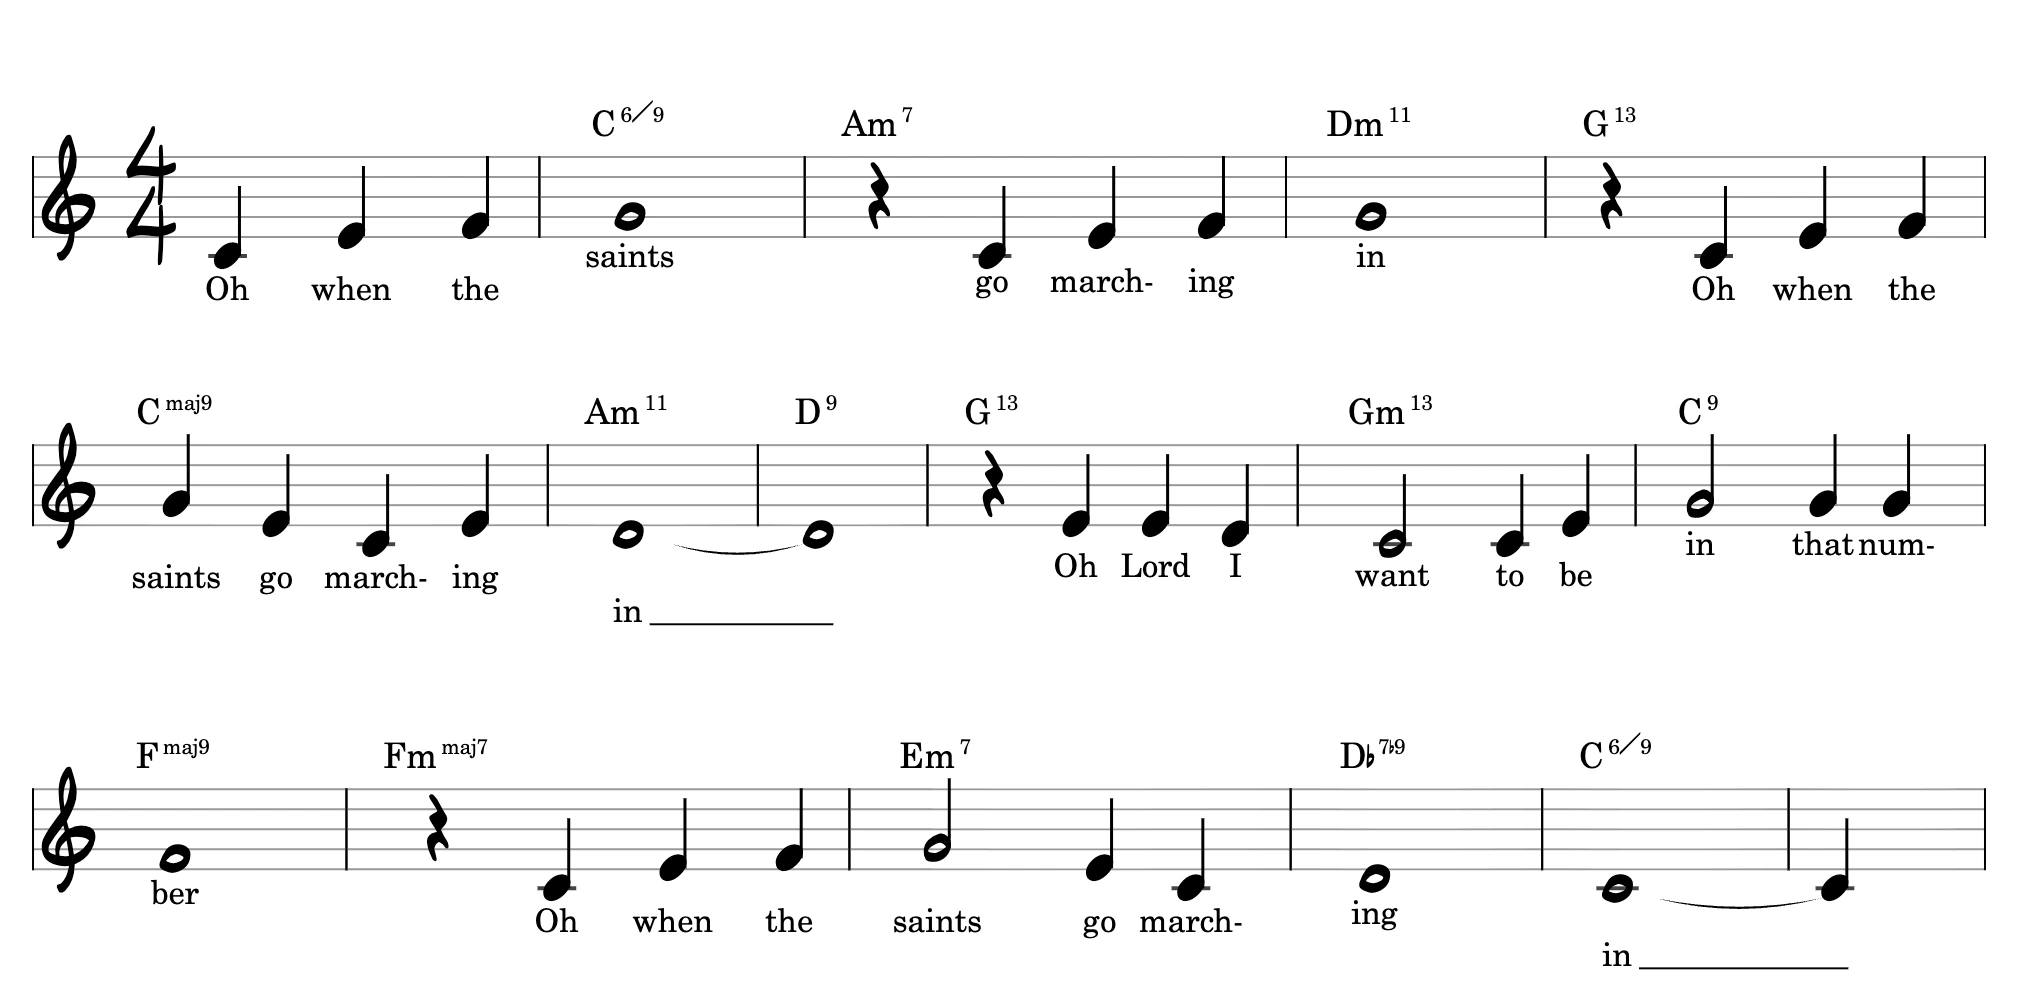
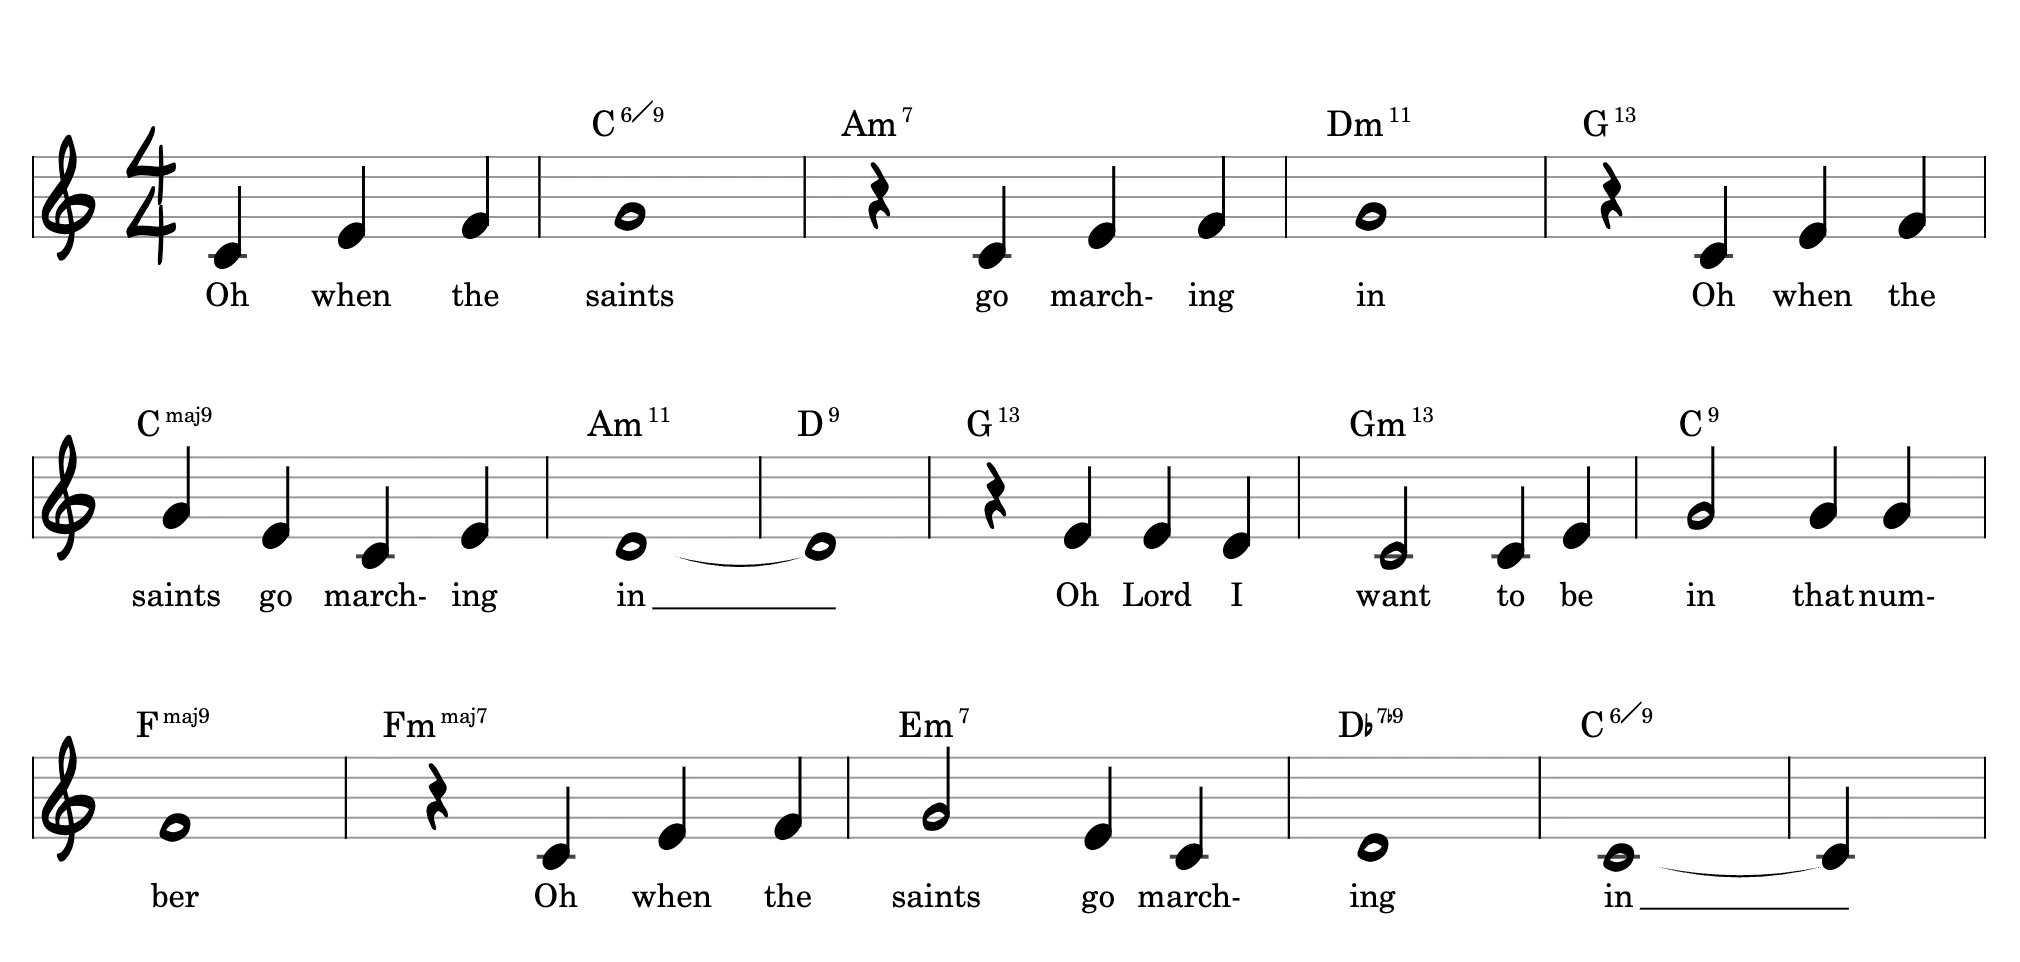
Align held lyrics and rehearsal lettering with their measured ink (#361)

diff --git a/src/continuouslayout.ts b/src/continuouslayout.ts
@@ -1,5 +1,6 @@
 // Row-dependent notation for a responsive EasyScore composition. Source measures and notes keep their identity.
 import { Accidental } from './accidental';
+import { Annotation } from './annotation';
 import { Clef } from './clef';
 import {
   continuationPitch,
@@ -22,6 +23,7 @@ import { MultiMeasureRest } from './multimeasurerest';
 import { Note } from './note';
 import { RenderContext } from './rendercontext';
 import type { SheetOptions, SheetRow } from './sheet';
+import type { Stave } from './stave';
 import { Barline, BarlineType } from './stavebarline';
 import { StaveConnector } from './staveconnector';
 import { StaveModifier, StaveModifierPosition as Position } from './stavemodifier';
@@ -298,6 +300,18 @@ export class ContinuousLayout {
           if (!Number.isInteger(head) || head < 0 || head >= n.keys.length) invalid('Invalid span head index.');
       }
       if (first.measure === last.measure && onset(first.note).greaterThan(onset(last.note))) invalid('Reversed span.');
+      if (
+        span.syllableId !== undefined &&
+        (typeof span.syllableId !== 'string' ||
+          span.syllableId.length === 0 ||
+          span.kind !== 'lyric' ||
+          first.staff !== last.staff ||
+          span.text !== undefined ||
+          span.labelFontSize !== undefined)
+      )
+        invalid(
+          'An anchored lyric extender needs a syllable ID and two notes on the same staff. Its annotation supplies the text and font.'
+        );
       if (span.kind === 'tie' && first.measure !== last.measure) {
         const fi = span.fromHead ?? 0,
           li = span.toHead ?? 0;
@@ -460,6 +474,15 @@ export class ContinuousLayout {
   }
 
   format(options: Required<SheetOptions>): ContinuousRow[] {
+    // A verse can be attached after composition. Resolve its current mark before every reflow.
+    for (const span of this.spans) {
+      if (!span.spec.syllableId) continue;
+      const matches = span.first.note
+        .getModifiers()
+        .filter((m): m is Annotation => m instanceof Annotation && m.getAttribute('id') === span.spec.syllableId);
+      if (matches.length !== 1) invalid('Expected one lyric annotation on the source note: ' + span.spec.syllableId);
+      span.syllable = matches[0];
+    }
     this.hidden.clear();
     this.diagnostics.length = 0;
     this.fragments.length = 0;
@@ -604,6 +627,15 @@ export class ContinuousLayout {
     const laneEnds = new Map<string, number[]>();
     for (const s of spans) {
       if (s.spec.kind === 'tie' || s.spec.kind === 'slur') continue;
+      if (s.syllable) {
+        // A continuation row may have no sung words of its own. Include the extender in that staff's envelope.
+        const stave = this.score.staves[first][s.first.staff];
+        const relativeY = this.lyricBaseline(s.syllable, stave) - stave.getY();
+        const bounds = ink[s.first.staff];
+        bounds.top = Math.min(bounds.top, relativeY);
+        bounds.bottom = Math.max(bounds.bottom, relativeY + 2);
+        continue;
+      }
       const side = spanAbove(s.spec),
         staff = s.first.staff,
         key = staff + '-' + side;
@@ -679,6 +711,13 @@ export class ContinuousLayout {
     return row;
   }
 
+  /** Carry the source syllable's distance from its top staff line to each continuation. */
+  private lyricBaseline(word: Annotation, stave: Stave): number {
+    const source = word.checkAttachedNote().checkStave();
+    const spaces = (word.computeY().y + word.getYShift() - source.getYForLine(0)) / source.space(1);
+    return stave.getYForLine(0) + stave.space(spaces);
+  }
+
   /** Keep continuation hooks and labels on the correct end when a span crosses a row. */
   private addFragment(s: ResolvedSpan, units: Unit[], row: ContinuousRow, baseline: number): void {
     const first = units[0].first,
@@ -695,6 +734,14 @@ export class ContinuousLayout {
     let x2 = ends ? s.last.note.getAbsoluteX() + s.last.note.getGlyphWidth() : endStaff.getNoteEndX() - 3;
     let y1 = baseline,
       y2 = baseline;
+    if (s.syllable) {
+      y1 = y2 = this.lyricBaseline(s.syllable, startStaff);
+      if (starts) {
+        const ink = s.syllable.getTextInk(s.syllable.computeX().x, s.syllable.computeY().y);
+        x1 = ink.x + ink.w + space * 0.35;
+      }
+      if (ends) x2 = (s.last.note as StaveNote).getNoteHeadBeginX() + s.last.note.getGlyphWidth();
+    }
     if (kind === 'tie' || kind === 'slur') {
       if (starts) x1 = s.first.note.getTieRightX();
       if (ends) x2 = s.last.note.getTieLeftX();

diff --git a/src/stavesection.ts b/src/stavesection.ts
@@ -1,6 +1,8 @@
 // Copyright (c) 2023-present VexFlow contributors: https://github.com/vexflow/vexflow/graphs/contributors
 // @author: Larry Kuhns 2011
+// Draw rehearsal lettering and its optional frame from the same positioned text.
 
+import { BoundingBox } from './boundingbox';
 import { Metrics } from './metrics';
 import { StaveModifier } from './stavemodifier';
 import { Category } from './typeguard';
@@ -27,24 +29,31 @@ export class StaveSection extends StaveModifier {
     return this;
   }
 
+  /** Report the same ink and padding before drawing as after a stave has moved. */
+  override getBoundingBox(): BoundingBox {
+    if (this.stave) {
+      this.x = this.stave.getX() + this.stave.getModifierXShift(this.getPosition()) + this.padding;
+      this.y = this.stave.getYForTopText(1.5) - this.padding;
+    }
+    const ink = this.getTextInk(this.x, this.y);
+    if (!this.drawRect) return ink;
+    return new BoundingBox(
+      ink.x - this.padding,
+      ink.y - this.padding,
+      ink.w + 2 * this.padding,
+      ink.h + 2 * this.padding
+    );
+  }
+
   override draw(): void {
-    const stave = this.checkStave();
-    const ctx = stave.checkContext();
+    const ctx = this.checkStave().checkContext();
+    const bounds = this.getBoundingBox();
     this.setRendered();
-
-    this.x = stave.getX() + stave.getModifierXShift(this.getPosition());
-    const headroom = -1 * this.textMetrics.actualBoundingBoxDescent;
-    const width = this.width + 2 * this.padding; // add left & right padding
-    const height = this.height + 2 * this.padding; // add top & bottom padding
-
-    //  Seems to be a good default y
-    const y = stave.getYForTopText(1.5) + this.yShift;
-    const x = this.x + this.xShift;
     if (this.drawRect) {
       ctx.beginPath();
-      ctx.rect(x, y - height + headroom, width, height);
+      ctx.rect(bounds.x, bounds.y, bounds.w, bounds.h);
       ctx.stroke();
     }
-    this.renderText(ctx, this.xShift + this.padding, y - this.padding);
+    this.renderText(ctx, 0, 0);
   }
 }

diff --git a/tests/scores/saints.js b/tests/scores/saints.js
@@ -17,7 +17,7 @@
     ['G4/w', 'in', 'C', 'Dm:11'],
     ['B4/q/r, C4/q, E4, F4', '_ Oh when the', 'C', 'G:13'],
     ['G4/q, E4, C4, E4', 'saints go march- ing', 'C', 'C:maj9'],
-    ['D4/w', '', 'G:7', 'Am:11'],
+    ['D4/w', 'in', 'G:7', 'Am:11'],
     ['D4/w', '', 'G:7', 'D:9'],
     ['B4/q/r, E4/q, E4, D4', '_ Oh Lord I', 'G:7', 'G:13'],
     ['C4/h, C4/q, E4', 'want to be', 'C', 'Gm:13'],
@@ -26,7 +26,7 @@
     ['B4/q/r, C4/q, E4, F4', '_ Oh when the', 'F', 'Fm:maj7'],
     ['G4/h, E4/q, C4', 'saints go march-', 'C', 'Em:7'],
     ['D4/w', 'ing', 'G:7', 'Db:7b9'],
-    ['C4/w', '', 'C', 'C:6/9'],
+    ['C4/w', 'in', 'C', 'C:6/9'],
     ['C4/q', '', '', ''],
   ];
 
@@ -42,13 +42,14 @@
         },
       ],
     }));
-    const spans = [6, 15].flatMap((m) =>
+    const heldBars = [6, 15];
+    const spans = heldBars.flatMap((m) =>
       ['lyric', 'tie'].map((kind) => ({
         id: kind + m,
         kind,
         from: 'v' + m + '-0',
         to: 'v' + (m + 1) + '-0',
-        ...(kind === 'lyric' ? { text: 'in' } : {}),
+        ...(kind === 'lyric' ? { syllableId: 'held-in-' + m } : {}),
       }))
     );
     return {
@@ -68,7 +69,13 @@
             .flatMap((text, i) =>
               text && text !== '_' ? [{ text, note: composition.getNote('v' + m + '-' + i) }] : []
             );
-          if (syllables.length) composition.systems[m].getPhraseLayout().addVerse(composition.staves[m][0], syllables);
+          if (syllables.length) {
+            // A single verse line sits below the lowest pickup. Hold the vowel across the next bar.
+            const words = composition.systems[m].getPhraseLayout().addVerse(composition.staves[m][0], syllables, {
+              baselineSpaces: 7.5,
+            });
+            if (heldBars.includes(m)) words[0].setAttribute('id', 'held-in-' + m);
+          }
         });
       },
     };

diff --git a/src/svgcontext.ts b/src/svgcontext.ts
@@ -52,6 +52,8 @@ const SVG_NS = 'http://www.w3.org/2000/svg';
 const TWO_PI = 2 * Math.PI;
 
 export interface State {
+  /** Font shorthand returned by getFont() at the matching save(). */
+  font?: string;
   state: Attributes;
   attributes: Attributes;
 }
@@ -589,6 +591,7 @@ export class SVGContext extends RenderContext {
 
   save(): this {
     this.stateStack.push({
+      font: this.fontCSSString,
       state: structuredClone(this.state),
       attributes: structuredClone(this.attributes),
     });
@@ -598,9 +601,16 @@ export class SVGContext extends RenderContext {
   restore(): this {
     const savedState = this.stateStack.pop();
     if (savedState) {
-      const state = savedState;
-      this.state = structuredClone(state.state);
-      this.attributes = structuredClone(state.attributes);
+      this.state = structuredClone(savedState.state);
+      this.attributes = structuredClone(savedState.attributes);
+      this.fontCSSString =
+        savedState.font ??
+        Font.toCSSString({
+          family: this.attributes['font-family'],
+          size: this.attributes['font-size'],
+          weight: this.attributes['font-weight'],
+          style: this.attributes['font-style'],
+        });
     }
     return this;
   }

diff --git a/src/continuousspan.ts b/src/continuousspan.ts
@@ -1,4 +1,5 @@
 // Logical event anchors and renderer-independent drawing of continuous-score span fragments.
+import type { Annotation } from './annotation';
 import { Bounds } from './boundingbox';
 import { Element } from './element';
 import { Glyphs } from './glyphs';
@@ -36,6 +37,8 @@ export interface ContinuousSpan {
   text?: string;
   /** Optional type size for this label, in points. Measured before system breaks are chosen. */
   labelFontSize?: number;
+  /** For a lyric extender, take the baseline and ink edge from this Annotation on the source note. */
+  syllableId?: string;
 }
 export interface SpanAnchor {
   measure: number;
@@ -47,6 +50,7 @@ export interface ResolvedSpan {
   first: SpanAnchor;
   last: SpanAnchor;
   label?: Element;
+  syllable?: Annotation;
 }
 export interface SpanFragment {
   id: string;

diff --git a/docs/vf6/font-plan.md b/docs/vf6/font-plan.md
@@ -47,6 +47,12 @@ Measure with the same family, size, weight, and style used to draw. Start with t
 
 **Verify** SVG and Canvas with wide → narrow → wide reflow and at two staff sizes. Look for stable lyric baselines, extenders that clear their syllables, legible chord scripts, and centered labels even after the previous draw used a different font. Add focused geometry assertions for failures found in the samples. Record any intentional change to a system or page break. [Chord tests](../../tests/node/chord-kerning-tests.mjs) · [Print tests](../../tests/node/publication-tests.mjs)
 
+### Milestone 3 results
+
+- The interactive Saints verse uses a baseline 7.5 staff spaces below the top line. Its two held syllables own their extenders. Each line starts 0.35 staff spaces past the visible word and keeps its height across a system break. At the gallery review width the same 17 bars still occupy three systems, and the narrow view still uses nine. SVG and Canvas restore the original geometry after resizing at both 9 px and 10 px staff spacing.
+- Rehearsal frames now enclose the measured letters, including descenders. Moving a section shifts its lettering and frame together. Standard and tab tie labels center in their drawing font after either an 8 pt or a 32 pt preceding mark. SVG restores the previous font for the next caller.
+- The 13 pt chord checks cover root and extension bounds. Letter and A4 publication checks cover running text, fingerings and system placement. The print fixtures retain their page breaks. [Verse and extender example](../text-and-lyrics.md#shared-lyric-baselines)
+
 ## Milestone 4 · Review the repertoire
 
 Review both the QUnit and interactive editions. Compare Saints in its handwritten style with an Academico specimen. Use the default chord face in Greensleeves and both Kesh editions. Compare the H/P/T lettering in High Wire with the proposed default. Use the original Ballade edition as the reference for its title and dedication. Record a choice for each of these on the issue. Check Prelude dynamics, Sumer’s overlapping parts, and the drum and microtonal scores for crowded labels.

diff --git a/docs/text-and-lyrics.md b/docs/text-and-lyrics.md
@@ -57,6 +57,25 @@ note.addModifier(lyric, 0);
 
 Call `setTextBaseline()` without an argument to restore automatic positioning. The caller chooses a baseline that clears the notes, stems, and adjacent staves. Each verse can have its own baseline.
 
+For a responsive verse, set the distance below the top staff line in staff spaces. Use the same distance in each measure. A held syllable can own the start of its extender. Give the lyric span a `syllableId` in the composition, then set that ID on the corresponding verse annotation before formatting.
+
+```js
+// In spec.continuous.spans, “hold” and “release” are note IDs on the same staff.
+const extender = { id: 'hold-line', kind: 'lyric', from: 'hold', to: 'release', syllableId: 'held-word' };
+```
+
+```js
+// After composing the score, attach the word to its first note.
+const [word] = composition.systems[0].getPhraseLayout().addVerse(
+  composition.staves[0][0],
+  [{ note: composition.getNote('hold'), text: 'sing' }],
+  { baselineSpaces: 7.5 }
+);
+word.setAttribute('id', 'held-word');
+```
+
+The annotation supplies the text and font. The line starts just past the word’s visible ink and continues at the same staff-relative height after a system break. [Complete Saints example](../tests/scores/saints.js)
+
 ## Layout before drawing
 
 Attach notes to their staves and format the voice before requesting coordinates:
